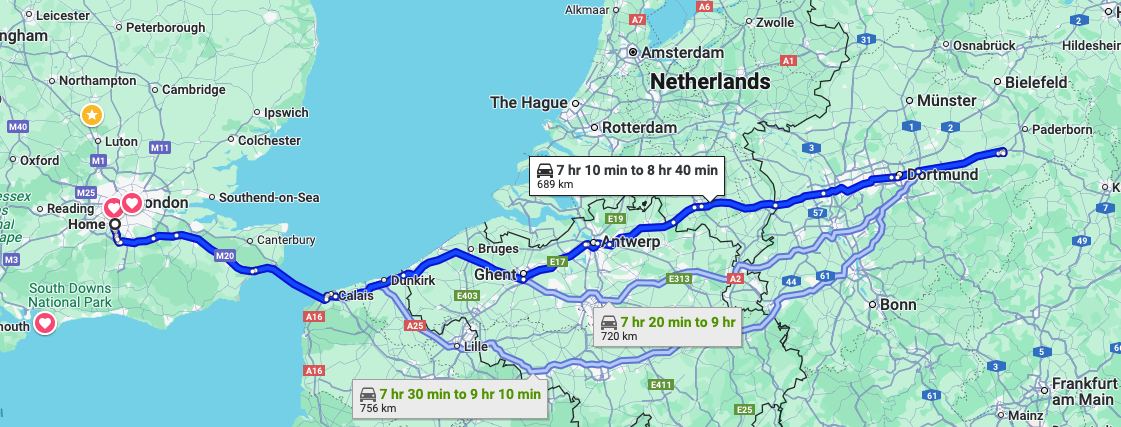
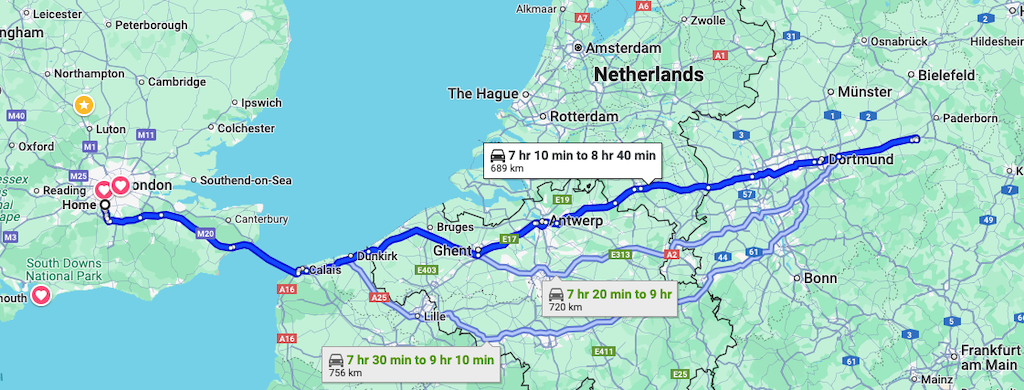
Update text

diff --git a/2010/refactoring-korean/index.html b/2010/refactoring-korean/index.html
@@ -3,7 +3,35 @@
 <svg data-bs-theme-value="light" class="icon-sun" width="24" height="24" viewBox="0 0 24 24" stroke-width="2" stroke="currentcolor" fill="none" stroke-linecap="round" stroke-linejoin="round"><path stroke="none" d="M0 0h24v24H0z" fill="none"/><path d="M12 12m-4 0a4 4 0 108 0 4 4 0 10-8 0m-5 0h1m8-9v1m8 8h1m-9 8v1M5.6 5.6l.7.7m12.1-.7-.7.7m0 11.4.7.7m-12.1-.7-.7.7"/></svg></a></li></ul></div></div></nav><header class=page-head><div class=container><p class=blog-description>내 이 세상 도처에서 쉴 곳을 찾아보았으나, 마침내 찾아낸, 컴퓨터가 있는 구석방보다 나은 곳은 없더라.</p></div></header><main class=container role=main><article class=post><header><p class=post-meta><time datetime=2010-08-04 itemprop=datePublished>2010-08-04</time>
 on
 <a href=/tags/%ea%b5%ad%ec%96%b4/>국어</a>
-<a href=/tags/%ec%83%81%eb%85%90/>상념</a></p><h1 class=post-title>'리팩터링'과 '리팩토링'</h1></header><section class=post-content><p>강중빈 이사님이 번역하신 <a href=https://ebook.insightbook.co.kr/book/116>프로그래머의 길 멘토에게 묻다</a> 책거리에 초대받아 출판사에 갔었다. 출판사 분들과 함께 책과 관련된 이런 저런 이야기를 나누다가 외래어 한글 표기법에 대한 이야기가 나왔다. 이런 얘기를 하다보니 내가 처음 번역한 '<a href="https://books.google.co.kr/books?id=Cw-uAQAACAAJ">리팩토링</a>'의 표기법을 생각하지 않을 수 없었다.</p><p>처음 <strong>refactoring</strong>을 한글로 옮길 때 '<strong>리팩토링</strong>'으로 표기했다. 별다는 생각이 있었던 건 아니었고, refactoring을 '리팩토링'이라고 읽었고 그렇게 적는 게 당연하다고 생각했다. 'refactoring' 철자도 'o'로 되어 있으니 한글로 적을 때도 'ㅗ'로 적는게 맞다는 생각도 했다. 그 때는 그게 옳다고 생각했다. 사전을 찾아 발음 기호를 확인한 것은 아니었다.</p><p>다른 책을 작업하면서 'directory'를 '디렉토리'로 표기했는데, 출판사에서 '디렉터리'가 맞다고 알려주면서 혼동이 시작됐다. 나는 원고를 쓸 때 사소한 것에 목숨을 거는 성미라 '디렉토리'가 맞다고 우겼지만 국어사전을 찾아보니 '디렉터리'로 표기되어 있었다. 사전을 찾아보기 전에는 이 단어가 사전에 등록되어 있는지도 몰랐다. 번역을 하면서 올바른 표기법을 쓰고 싶은 것은 역자로서 당연한 욕심이다. 국어사전에 등재되어 있는 것을 무시할 수는 없었지만, '디렉토리'로 쓰는 것이 맞다는 논리를 펴기 위해 다른 단어들을 살펴보았다. 국어사전에 나온 외래어 표기법은 현실과 동떨어진 경우가 많지 않은가?</p><table><thead><tr><th>단어</th><th>표기법1</th><th>표기법2</th></tr></thead><tbody><tr><td>directory</td><td>디렉토리</td><td>디렉터리</td></tr><tr><td>refactoring</td><td>리팩토링</td><td>리팩터링</td></tr><tr><td>factory</td><td>팩토리?</td><td>팩터리?</td></tr><tr><td>tutor</td><td>튜토? (이건 아니다)</td><td>튜터</td></tr><tr><td>singleton</td><td>싱글톤? (음... 왠지 촌스러운 느낌)</td><td>싱글턴 또는 싱글튼</td></tr><tr><td>Newton (사람 이름)</td><td>뉴톤? (이것도 아닌 듯)</td><td>뉴턴 또는 뉴튼</td></tr></tbody></table><p>이렇게 몇몇 단어를 한글로 적어보니 <strong>알파벳 'o'가 들어간다고 해서 한글로 무조건 'ㅗ'로 적는 것은 이상해 보였다.</strong> 그리고 영어 단어의 발음기호를 확인해보니 'ㅗ'로 적는 것보다는 'ㅓ'로는 게 맞겠다는 생각을 했다.</p><p>이렇게 생각을 하고 나니, '디렉터리'와 마찬가지로 '리팩토링'도 '리팩터링'으로 바꾸는 게 맞는 것 같았다. '디렉터리'로 표기하는 게 맞다면 '리팩터링'으로 표기해야 한다고 출판사에 말했다. 그 이후 다른 책을 작업할 때나 글을 쓸 때 '리팩터링'으로 표기하고 있다.</p><p>그러나 대세는 이미 '리팩토링'으로 기운 듯 하다. 구글에서 '리팩토링'으로 검색하면 2백만 건 이상의 결과가 나오지만 '리팩터링'으로 검색하면 고작 1만 건 정도의 결과가 나올 뿐이다.</p><p>사람들은 내 생각과 달리 '리팩토링'이 맞다고 생각하는 것일까? 리팩터링에 관한 최초의 번역서가 '리팩토링'으로 표기됐기 때문에 그냥 '리팩토링'이라고 쓰는 것일까? 내가 처음 번역할 때 '리팩토링'이 아닌 '리팩터링'으로 표기했다면 지금과 결과가 달라졌을까?</p></section><footer class=post-footer><div class="social button-box"><a href=https://twitter.com/share class=twitter-share-button data-show-count=false>Tweet</a>
+<a href=/tags/%ec%83%81%eb%85%90/>상념</a></p><h1 class=post-title>'리팩터링'과 '리팩토링'</h1></header><section class=post-content><p>강중빈 이사님이 번역하신 <a href=https://ebook.insightbook.co.kr/book/116>프로그래머의 길 멘토에게
+묻다</a> 책거리에 초대받아
+출판사에 갔었다. 출판사 분들과 함께 책과 관련된 이런 저런 이야기를
+나누다가 외래어 한글 표기법에 대한 이야기가 나왔다. 이런 얘기를
+하다보니 내가 처음 번역한
+'<a href="https://books.google.co.kr/books?id=Cw-uAQAACAAJ">리팩토링</a>'의
+표기법을 생각하지 않을 수 없었다.</p><p>처음 refactoring을 한글로 옮길 때 '리팩토링'으로 표기했다. 별다는
+생각이 있었던 건 아니었고, refactoring을 '리팩토링'이라고 읽었고
+그렇게 적는 게 당연하다고 생각했다. 'refactoring' 철자도 'o'로 되어
+있으니 한글로 적을 때도 'ㅗ'로 적는게 맞다는 생각도 했다. 그 때는 그게
+옳다고 생각했다. 사전을 찾아 발음 기호를 확인한 것은 아니었다.</p><p>다른 책을 작업하면서 'directory'를 '디렉토리'로 표기했는데, 출판사에서
+'디렉터리'가 맞다고 알려주면서 혼동이 시작됐다. 나는 원고를 쓸 때
+사소한 것에 목숨을 거는 성미라 '디렉토리'가 맞다고 우겼지만 국어사전을
+찾아보니 '디렉터리'로 표기되어 있었다. 찾아보기 전에는 이 단어가
+사전에 등록되어 있는지도 몰랐다. 번역을 하면서 올바른 표기법을 쓰고
+싶은 것은 역자로서 당연한 욕심이다. 국어사전에 등재되어 있는 것을
+무시할 수는 없었지만, '디렉토리'로 쓰는 것이 맞다는 논리를 펴기 위해
+다른 단어들을 살펴보았다. 국어사전에 나온 외래어 표기법은 현실과
+동떨어진 경우가 많지 않은가?</p><table><thead><tr><th>단어</th><th>표기법1</th><th>표기법2</th></tr></thead><tbody><tr><td>directory</td><td>디렉토리</td><td>디렉터리</td></tr><tr><td>refactoring</td><td>리팩토링</td><td>리팩터링</td></tr><tr><td>factory</td><td>팩토리?</td><td>팩터리?</td></tr><tr><td>tutor</td><td>튜토? (이건 아니다)</td><td>튜터</td></tr><tr><td>singleton</td><td>싱글톤? (음... 왠지 촌스러운 느낌)</td><td>싱글턴 또는 싱글튼</td></tr><tr><td>Newton (사람 이름)</td><td>뉴톤? (이것도 아닌 듯)</td><td>뉴턴 또는 뉴튼</td></tr></tbody></table><p>이렇게 몇몇 단어를 한글로 적어보니 알파벳 'o'가 들어간다고 해서 한글로
+무조건 'ㅗ'로 적는 것은 이상해 보였다.s 그리고 영어 단어의 발음기호를
+확인해보니 'ㅗ'로 적는 것보다는 'ㅓ'로는 게 맞겠다는 생각을 했다.</p><p>이렇게 생각을 하고 나니, '디렉터리'와 마찬가지로 '리팩토링'도
+'리팩터링'으로 바꾸는 게 맞는 것 같았다. '디렉터리'로 표기하는 게
+맞다면 '리팩터링'으로 표기해야 한다고 출판사에 말했다. 그 이후 다른
+책을 작업할 때나 글을 쓸 때 '리팩터링'으로 표기하고 있다.</p><p>그러나 대세는 이미 '리팩토링'으로 기운 듯 하다. 구글에서
+'리팩토링'으로 검색하면 2백만 건 이상의 결과가 나오지만 '리팩터링'으로
+검색하면 고작 1만 건 정도의 결과가 나올 뿐이다.</p><p>사람들은 내 생각과 달리 '리팩토링'이 맞다고 생각하는 것일까?
+리팩터링에 관한 최초의 번역서가 '리팩토링'으로 표기됐기 때문에 그냥
+'리팩토링'이라고 쓰는 것일까? 내가 처음 번역할 때 '리팩토링'이 아닌
+'리팩터링'으로 표기했다면 지금과 결과가 달라졌을까?</p></section><footer class=post-footer><div class="social button-box"><a href=https://twitter.com/share class=twitter-share-button data-show-count=false>Tweet</a>
 <a class=twitter-follow-button href=https://twitter.com/ntalbs data-show-count=false>Follow @ntalbs</a>
 <script async src=//platform.twitter.com/widgets.js></script></div><nav id=article-nav><a class="article-nav-link-wrap previous" href=/2010/meaning-of-default/ id=article-nav-newer>default의 뜻</a>
 <a class="article-nav-link-wrap next" href=/2010/uncompress-import/ id=article-nav-older>압축 해제와 동시에 import 하기</a></nav></footer></article></main><section class=section><div class=container><aside><div id=disqus_thread></div></aside><script type=text/javascript>var disqus_shortname="ntalbs-stuff",permalink="https://ntalbs.github.io/2010/refactoring-korean/".replace(/\//g,"/"),disqus_config=function(){this.page.url=permalink,this.page.identifier=permalink};(function(){var e=document,t=e.createElement("script");t.src="https://"+disqus_shortname+".disqus.com/embed.js",t.setAttribute("data-timestamp",+new Date),(e.head||e.body).appendChild(t)})()</script><noscript>Please enable JavaScript to view the <a href=https://disqus.com/?ref_noscript rel=nofollow>comments powered by Disqus.</a></noscript></div></section><section class=section><div class="container has-text-centered"><p></p></div></section><script src=/js/index.min.js type=text/javascript></script><footer class=page-bottom><div class=inner><section class=copyright>© 2008-2025 <a href=/about>ntalbs</a></section><section class=poweredby>Powered by <a class=icon-ghost href=https://gohugo.io>Hugo</a></section></div></footer></body></html>

diff --git a/page/28/index.html b/page/28/index.html
@@ -9,7 +9,13 @@ on
 <a href=/tags/%ec%98%81%ec%96%b4/>영어</a></span><h2 class=post-title><a href=/2010/meaning-of-default/>default의 뜻</a></h2></header><section class=post-excerpt><p><p>오전에 팀원 한 명이 '<strong>default의 뜻이 뭔지 아냐?</strong>'며 다른 팀원들에게 물어보고 있었다. 사전을 찾아봤는데 그런 의미가 있는 줄 전혀 몰랐다면서. 프로그래머에게 <strong>default</strong>는 낯선 단어가 아니지만 정확한 뜻이 내가 생각하는 그 뜻인지 확인해보기 위해 사전을 찾아봤다. 흔히 사용하는 영어 단어 중에 원래 뜻이 프로그래머들이 사용하는 뜻과 다른 경우가 많기 때문이다.</p></p><p><a class="button is-link" href=/2010/meaning-of-default/ style=height:28px>Read more...</a></p></section></article><article class=post><header class=post-header><span class=post-meta><time datetime=2010-08-04 itemprop=datePublished>2010-08-04</time>
 on
 <a href=/tags/%ea%b5%ad%ec%96%b4/>국어</a>
-<a href=/tags/%ec%83%81%eb%85%90/>상념</a></span><h2 class=post-title><a href=/2010/refactoring-korean/>'리팩터링'과 '리팩토링'</a></h2></header><section class=post-excerpt><p><p>강중빈 이사님이 번역하신 <a href=https://ebook.insightbook.co.kr/book/116>프로그래머의 길 멘토에게 묻다</a> 책거리에 초대받아 출판사에 갔었다. 출판사 분들과 함께 책과 관련된 이런 저런 이야기를 나누다가 외래어 한글 표기법에 대한 이야기가 나왔다. 이런 얘기를 하다보니 내가 처음 번역한 '<a href="https://books.google.co.kr/books?id=Cw-uAQAACAAJ">리팩토링</a>'의 표기법을 생각하지 않을 수 없었다.</p></p><p><a class="button is-link" href=/2010/refactoring-korean/ style=height:28px>Read more...</a></p></section></article><article class=post><header class=post-header><span class=post-meta><time datetime=2010-08-02 itemprop=datePublished>2010-08-02</time>
+<a href=/tags/%ec%83%81%eb%85%90/>상념</a></span><h2 class=post-title><a href=/2010/refactoring-korean/>'리팩터링'과 '리팩토링'</a></h2></header><section class=post-excerpt><p><p>강중빈 이사님이 번역하신 <a href=https://ebook.insightbook.co.kr/book/116>프로그래머의 길 멘토에게
+묻다</a> 책거리에 초대받아
+출판사에 갔었다. 출판사 분들과 함께 책과 관련된 이런 저런 이야기를
+나누다가 외래어 한글 표기법에 대한 이야기가 나왔다. 이런 얘기를
+하다보니 내가 처음 번역한
+'<a href="https://books.google.co.kr/books?id=Cw-uAQAACAAJ">리팩토링</a>'의
+표기법을 생각하지 않을 수 없었다.</p></p><p><a class="button is-link" href=/2010/refactoring-korean/ style=height:28px>Read more...</a></p></section></article><article class=post><header class=post-header><span class=post-meta><time datetime=2010-08-02 itemprop=datePublished>2010-08-02</time>
 on
 <a href=/tags/db/>DB</a>
 <a href=/tags/oracle/>Oracle</a>
